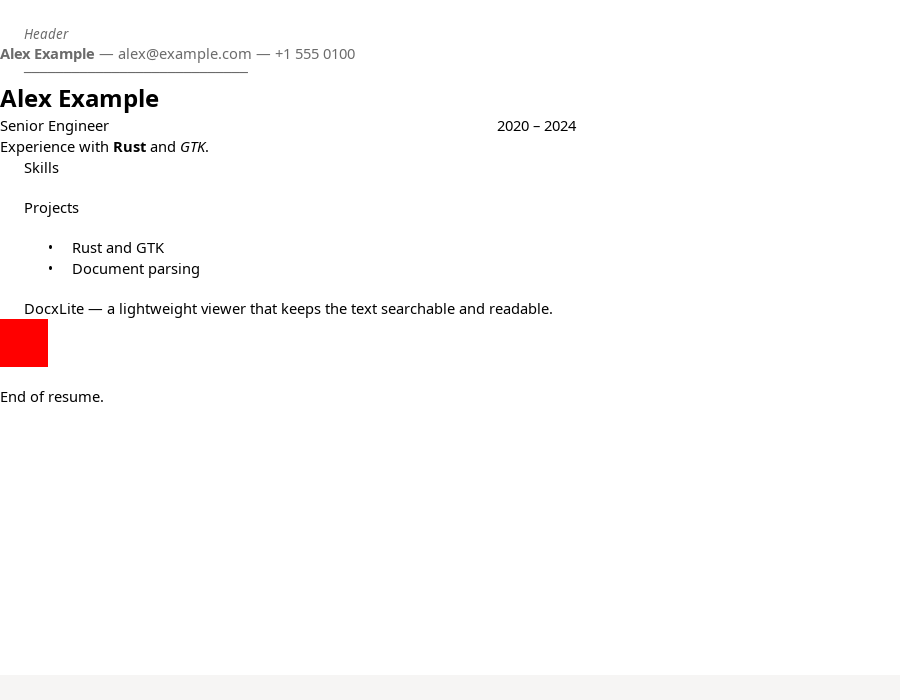
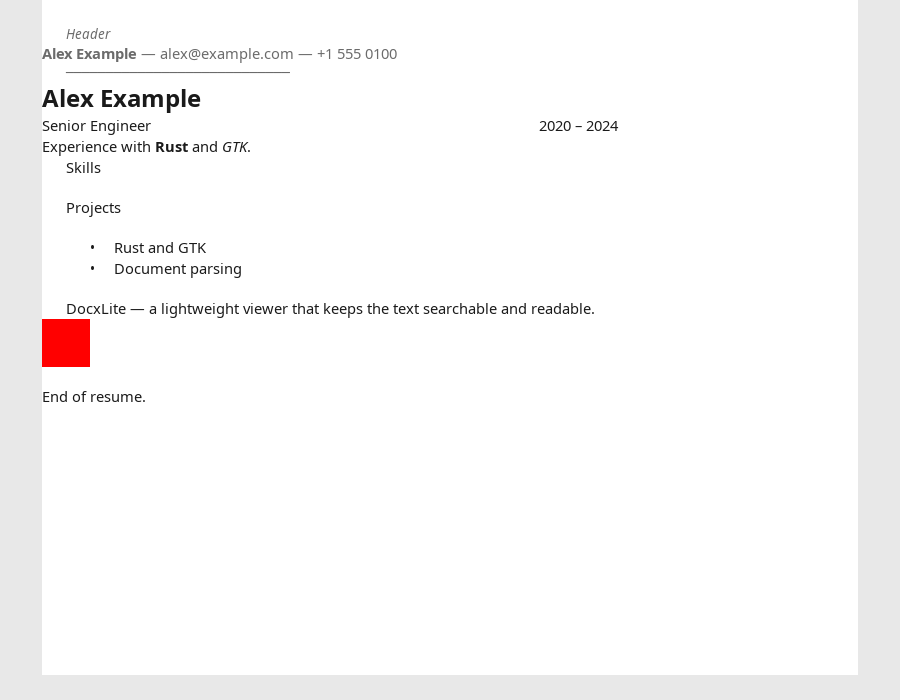
Center the document in a white page column
Adds a responsive page box with grey gutters so the view reads like a
document viewer instead of a full-width text buffer.

diff --git a/src/ui.rs b/src/ui.rs
@@ -68,6 +68,8 @@ fn install_css() {
         ".docx-banner { padding: 6px 8px; background-color: alpha(@theme_selected_bg_color, 0.18); }\n\
          .docx-status { padding: 4px 10px; font-size: 0.9em; opacity: 0.75; }\n\
          .docx-empty-title { font-size: 1.2em; }\n\
+         .docx-body { background-color: #e8e8e8; }\n\
+         .docx-page { background-color: #ffffff; }\n\
          .docx-text { background-color: #ffffff; color: #1a1a1a; }\n\
          window { background-color: #f6f6f6; color: #1a1a1a; }\n\
          headerbar { background-color: #f6f6f6; color: #1a1a1a; }\n",
@@ -84,6 +86,7 @@ struct WindowState {
     stack: gtk::Stack,
     empty_label: gtk::Label,
     text_view: gtk::TextView,
+    page_box: gtk::Box,
     search_bar: gtk::SearchBar,
     search_entry: gtk::SearchEntry,
     search_button: gtk::ToggleButton,
@@ -144,6 +147,7 @@ fn open_window(app: &gtk::Application, path: Option<PathBuf>) -> Rc<RefCell<Wind
     header.pack_end(&zoom_button);
 
     let body = gtk::Box::new(gtk::Orientation::Vertical, 0);
+    body.add_css_class("docx-body");
     window.set_child(Some(&body));
 
     let banner = gtk::Revealer::new();
@@ -187,6 +191,13 @@ fn open_window(app: &gtk::Application, path: Option<PathBuf>) -> Rc<RefCell<Wind
     stack.add_named(&empty_box, Some("empty"));
 
     let text_box = gtk::Box::new(gtk::Orientation::Vertical, 0);
+    text_box.set_vexpand(true);
+    let page_box = gtk::Box::new(gtk::Orientation::Vertical, 0);
+    page_box.add_css_class("docx-page");
+    page_box.set_halign(gtk::Align::Center);
+    page_box.set_vexpand(true);
+    page_box.set_hexpand(false);
+    page_box.set_width_request(816);
     let scrolled = gtk::ScrolledWindow::new();
     scrolled.set_vexpand(true);
     scrolled.set_hexpand(true);
@@ -200,7 +211,8 @@ fn open_window(app: &gtk::Application, path: Option<PathBuf>) -> Rc<RefCell<Wind
     text_view.set_bottom_margin(24);
     text_view.add_css_class("docx-text");
     scrolled.set_child(Some(&text_view));
-    text_box.append(&scrolled);
+    page_box.append(&scrolled);
+    text_box.append(&page_box);
     stack.add_named(&text_box, Some("text"));
     stack.set_visible_child_name("empty");
 
@@ -216,6 +228,7 @@ fn open_window(app: &gtk::Application, path: Option<PathBuf>) -> Rc<RefCell<Wind
         stack,
         empty_label,
         text_view: text_view.clone(),
+        page_box: page_box.clone(),
         search_bar: search_bar.clone(),
         search_entry: search_entry.clone(),
         search_button: search_button.clone(),
@@ -235,6 +248,18 @@ fn open_window(app: &gtk::Application, path: Option<PathBuf>) -> Rc<RefCell<Wind
         theme,
     }));
 
+    {
+        let resize_state = state.clone();
+        glib::timeout_add_local(Duration::from_millis(200), move || {
+            if let Ok(state) = resize_state.try_borrow() {
+                if !state.window.is_visible() {
+                    return glib::ControlFlow::Break;
+                }
+                update_page_width(&state);
+            }
+            glib::ControlFlow::Continue
+        });
+    }
     {
         let state = state.clone();
         banner_close.connect_clicked(move |_| {
@@ -879,6 +904,18 @@ fn allowed_scheme(url: &str) -> bool {
             "http" | "https" | "mailto"
         )
     })
+}
+
+fn update_page_width(state: &WindowState) {
+    let window_width = state.window.width();
+    if window_width <= 0 {
+        return;
+    }
+    let available = window_width.saturating_sub(48).max(200);
+    let desired = ((available as f64).min(816.0 * state.zoom)).round() as i32;
+    if state.page_box.width_request() != desired {
+        state.page_box.set_width_request(desired);
+    }
 }
 
 fn file_name(path: &std::path::Path) -> String {

diff --git a/DECISIONS.md b/DECISIONS.md
@@ -27,3 +27,5 @@ One line per non-obvious decision. The build specification is background; this f
 - **Measured on this machine.** 833 KB stripped binary, 379 KB `.deb`, 880 KB installed; 1,000-page fixture parsed in 0.18 s with 260,000 nodes and ~70 MB headless RSS; GUI peak RSS under Xvfb was ~137 MB with `GSK_RENDERER=cairo` and ~213 MB with the default GL/llvmpipe path. The 80 MB GUI target is not met under Xvfb.
 
 - **Local-only artifact baseline.** The checked-out local `.deb` was built on Ubuntu 24.04 (glibc 2.39/GTK 4.14) because no 22.04 container/sudo was available. The release workflow uses `ubuntu:22.04` for the older glibc/GTK baseline. The crate compiles with the `v4_6` feature, but the 22.04 runtime was not exercised locally.
+
+- **Centred white page column.** The text view is wrapped in a responsive white page box capped at 816 px × zoom, centred over grey gutters. On narrow windows the page shrinks to the available width; a 200 ms resize poll adjusts the page width.

diff --git a/README.md b/README.md
@@ -25,6 +25,7 @@ A small, read-only `.docx` viewer for Ubuntu. It opens Word documents as readabl
 - No macros, OLE activation, external templates or external image loading.
 - No `.doc`, `.odt` or `.rtf` support. Old/password-protected documents get a friendly message.
 - No pixel-faithful pagination, headers/footers per page, columns, comments pane, WordArt, charts or SmartArt. Unsupported content shows a placeholder or warning.
+- The document is shown in a centred white page column with grey gutters; this is a reading layout, not a page-layout clone.
 
 ## Install
 
